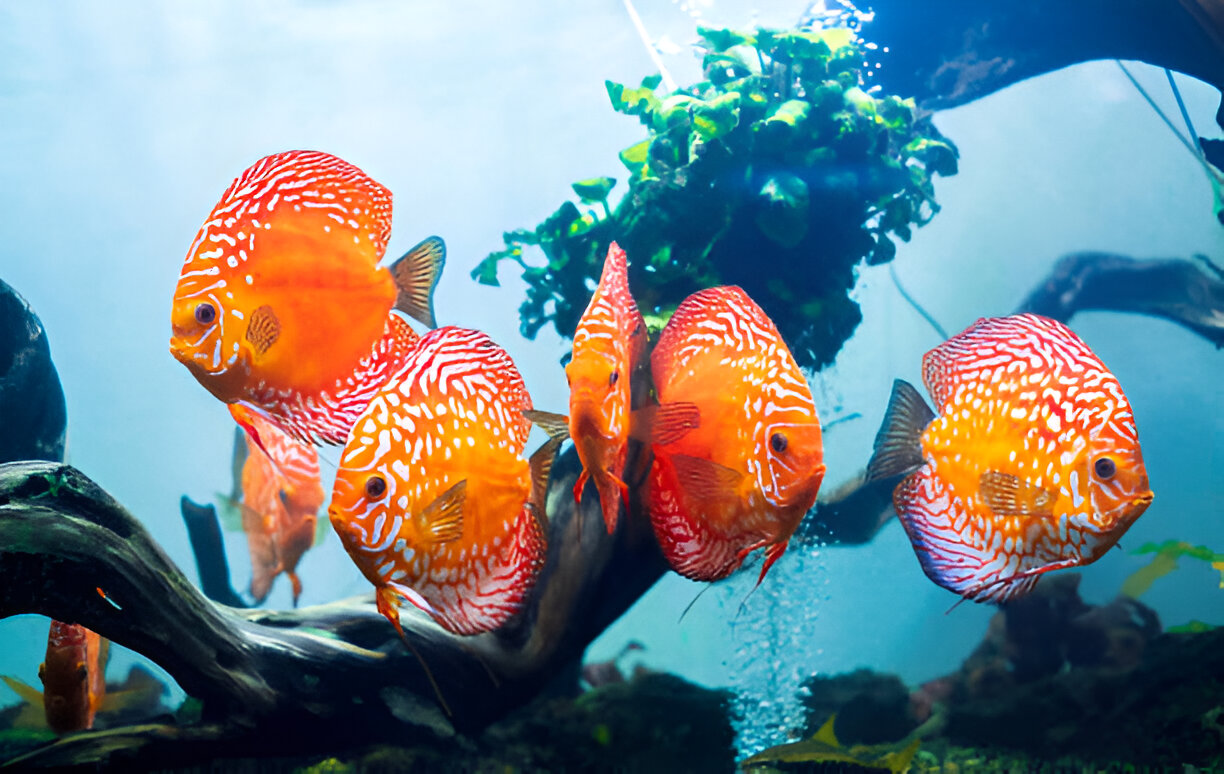
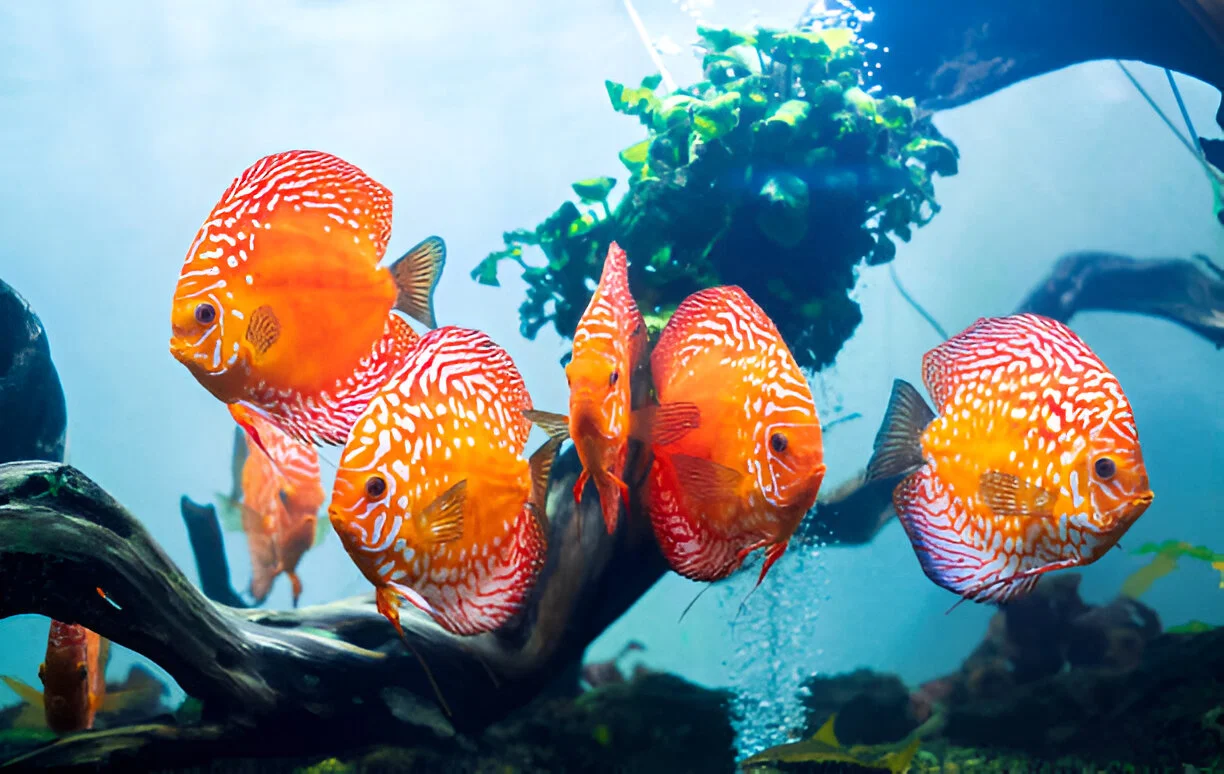
Preloading background image and some change next-config.mjs

diff --git a/src/pages/index.js b/src/pages/index.js
@@ -1,5 +1,4 @@
 import React, { useEffect, useState } from "react";
-import Navbar from "./UI/Components/Navbar/Navbar";
 import "slick-carousel/slick/slick.css";
 import "slick-carousel/slick/slick-theme.css";
 import Slider from "react-slick";
@@ -8,8 +7,6 @@ import Link from "next/link";
 import { MdArrowOutward } from "react-icons/md";
 import FAQ from "./UI/Components/FAQ/FAQ";
 import { fetchData } from "@/utils/utils";
-import SeoConfig from "./UI/Components/SEO/SEO";
-import BackgroundImage from "../../public/assets/HeroBackgroundImage.jpg";
 import SEO from "./UI/Components/SEO/SEO";
 
 export const CategoryObject = {
@@ -121,7 +118,7 @@ function index({ categories, posts }) {
             aquarist, our blog is dedicated to providing in-depth knowledge and
             expert guidance on discus fish care, maintenance, feeding, species,
             medicines, and more."
-        imageURL={`${process.env.NEXT_PUBLIC_URL}/assets/HeroBackgroundImage.jpg`}
+        imageURL={`${process.env.NEXT_PUBLIC_URL}/assets/HeroBackgroundImage.webp`}
         url={`${process.env.NEXT_PUBLIC_URL}`}
       />
       <div className="2xl:container 2xl:mx-auto w-full h-[40rem] heroSection ">

diff --git a/src/styles/globals.css b/src/styles/globals.css
@@ -74,7 +74,7 @@ body {
       rgba(42, 89, 138, 0.4) 23%,
       rgba(30, 63, 97, 0.2) 92%
     ),
-    url("/assets/HeroBackgroundImage.jpg");
+    url("/assets/HeroBackgroundImage.webp");
   background-repeat: no-repeat;
   background-size: cover;
   background-position: center;
@@ -103,7 +103,7 @@ body {
         rgba(42, 89, 138, 0.4) 23%,
         rgba(30, 63, 97, 0.2) 92%
       ),
-      url("/assets/HeroBackgroundImage.jpg");
+      url("/assets/HeroBackgroundImage.webp");
     background-repeat: no-repeat;
     background-size: auto;
     background-position: center;

diff --git a/src/pages/blog/[category]/index.js b/src/pages/blog/[category]/index.js
@@ -31,7 +31,7 @@ function index({ category, categoryPosts, categoryInfo }) {
       <SEO
         title={CategoryObject[category] + " | Discus Gallery"}
         description={categoryInfo.data.description}
-        imageURL={`${process.env.NEXT_PUBLIC_URL}/assets/HeroBackgroundImage.jpg`}
+        imageURL={`${process.env.NEXT_PUBLIC_URL}/assets/HeroBackgroundImage.webp`}
         url={`${process.env.NEXT_PUBLIC_URL}/blog/${categoryInfo.data.slug}`}
       />
       <div className="container w-[95%] mx-auto my-8 lg:flex">

diff --git a/src/pages/privacy-policy/index.js b/src/pages/privacy-policy/index.js
@@ -13,7 +13,7 @@ function index() {
         aquarist, our blog is dedicated to providing in-depth knowledge and
         expert guidance on discus fish care, maintenance, feeding, species,
         medicines, and more."
-        imageURL={`${process.env.NEXT_PUBLIC_URL}/assets/HeroBackgroundImage.jpg`}
+        imageURL={`${process.env.NEXT_PUBLIC_URL}/assets/HeroBackgroundImage.webp`}
         url={`${process.NEXT_PUBLIC_URL}/privacy-policy`}
       />
       <div className="container mx-auto my-4 p-4 md:p-0">

diff --git a/src/pages/about-us/index.js b/src/pages/about-us/index.js
@@ -25,7 +25,7 @@ function page() {
             aquarist, our blog is dedicated to providing in-depth knowledge and
             expert guidance on discus fish care, maintenance, feeding, species,
             medicines, and more."
-        imageURL={`${process.env.NEXT_PUBLIC_URL}/assets/HeroBackgroundImage.jpg`}
+        imageURL={`${process.env.NEXT_PUBLIC_URL}/assets/HeroBackgroundImage.webp`}
         url={`${process.NEXT_PUBLIC_URL}`}
       />
       <div className="container mx-auto my-4 p-4 md:p-0">

diff --git a/src/pages/contact-us/index.js b/src/pages/contact-us/index.js
@@ -13,7 +13,7 @@ function index() {
         aquarist, our blog is dedicated to providing in-depth knowledge and
         expert guidance on discus fish care, maintenance, feeding, species,
         medicines, and more."
-        imageURL={`${process.env.NEXT_PUBLIC_URL}/assets/HeroBackgroundImage.jpg`}
+        imageURL={`${process.env.NEXT_PUBLIC_URL}/assets/HeroBackgroundImage.webp`}
         url={`${process.NEXT_PUBLIC_URL}/contact-us`}
       />
       <div className="container mx-auto my-4 p-4 md:p-0">

diff --git a/src/pages/disclaimer/index.js b/src/pages/disclaimer/index.js
@@ -13,7 +13,7 @@ function index() {
         aquarist, our blog is dedicated to providing in-depth knowledge and
         expert guidance on discus fish care, maintenance, feeding, species,
         medicines, and more."
-        imageURL={`${process.env.NEXT_PUBLIC_URL}/assets/HeroBackgroundImage.jpg`}
+        imageURL={`${process.env.NEXT_PUBLIC_URL}/assets/HeroBackgroundImage.webp`}
         url={`${process.NEXT_PUBLIC_URL}`}
       />
       <div className="container mx-auto my-4 p-4 md:p-0">

diff --git a/src/pages/terms-and-condtions/index.js b/src/pages/terms-and-condtions/index.js
@@ -13,7 +13,7 @@ function index() {
         aquarist, our blog is dedicated to providing in-depth knowledge and
         expert guidance on discus fish care, maintenance, feeding, species,
         medicines, and more."
-        imageURL={`${process.env.NEXT_PUBLIC_URL}/assets/HeroBackgroundImage.jpg`}
+        imageURL={`${process.env.NEXT_PUBLIC_URL}/assets/HeroBackgroundImage.webp`}
         url={`${process.NEXT_PUBLIC_URL}`}
       />
       <div className="container mx-auto my-4 p-4 md:p-0">

diff --git a/src/pages/UI/Components/SEO/SEO.jsx b/src/pages/UI/Components/SEO/SEO.jsx
@@ -38,9 +38,13 @@ function SEO({ title, description, imageURL, url }) {
       <link
         rel="preload"
         as="image"
-        href="/assets/HeroBackgroundImage.jpg"
+        href="/assets/HeroBackgroundImage.webp"
         fetchPriority="high"
       />
+      <script
+        src="https://pagead2.googlesyndication.com/pagead/js/adsbygoogle.js?client=ca-pub-3441215479960974"
+        crossOrigin="anonymous"
+      ></script>
     </Head>
   );
 }
